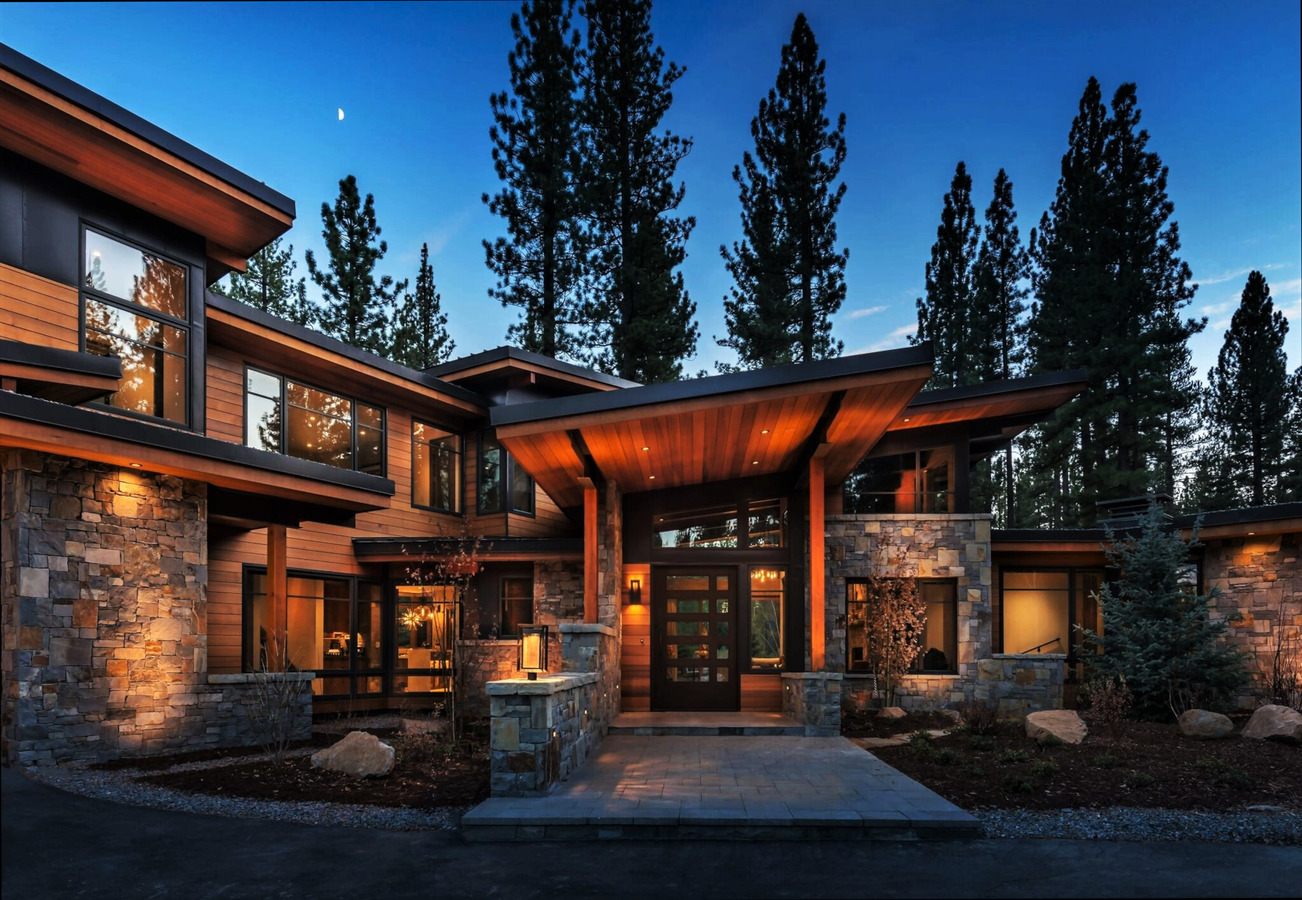
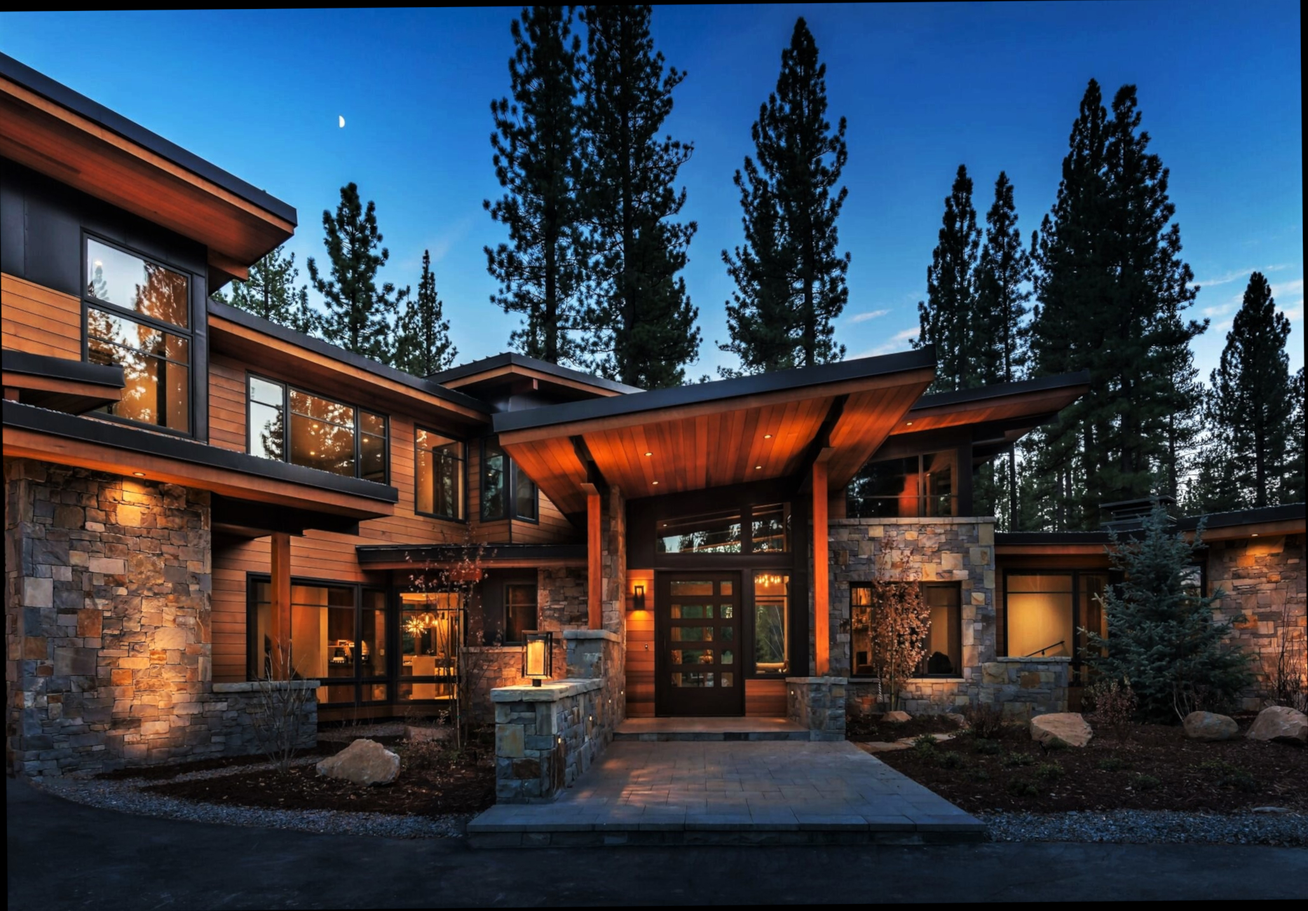
Front heroku

Changed region(s): [[0.0, 0.0, 1.0, 1.0]]

diff --git a/src/styles.scss b/src/styles.scss
@@ -97,7 +97,7 @@ body, html{
     background: linear-gradient(to right, #0005,#0005), url("./assets/real-estate (4).jpg") no-repeat; background-position: 0% 88%;
 
 
-    background-size: 128%;
+    background-size: 125%;
     // background-size: cover;
 }
 @media( max-width:900px){
